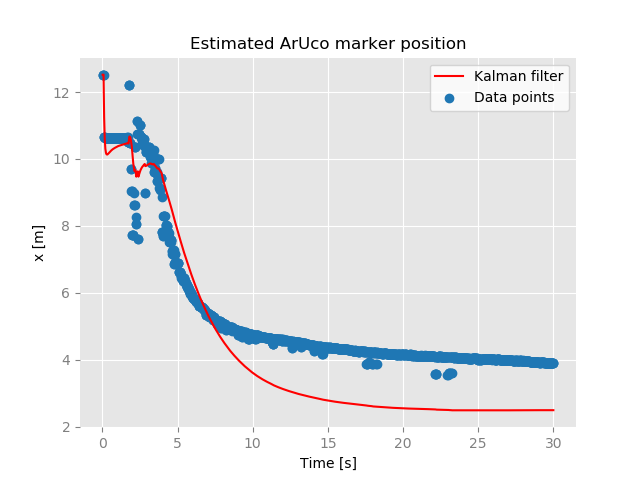
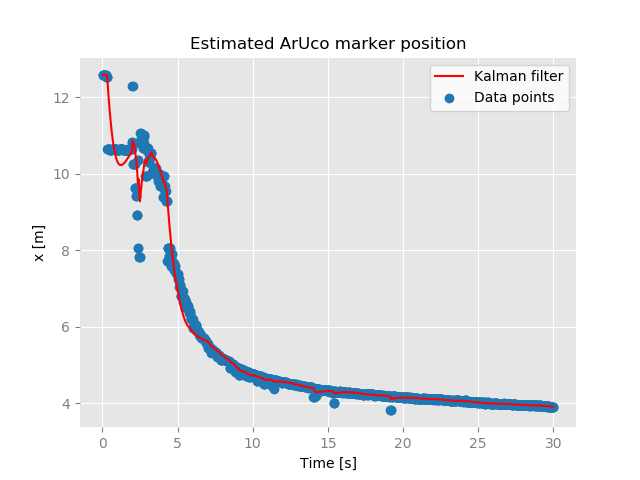
Adaptive filtering added to Kalman filter. KF can be considered done by now

diff --git a/software/ros_workspace/src/marker_detection/tracking.py b/software/ros_workspace/src/marker_detection/tracking.py
@@ -1,15 +1,12 @@
 #!/usr/bin/env python2
 
-#from __future__ import print_function
 import numpy as np
-#import cv2
-import matplotlib.pyplot as plt
 from filterpy.kalman import KalmanFilter 
 from filterpy.common import Q_discrete_white_noise
 from scipy.linalg import block_diag
-#from numpy.random import randn
 from filterpy import*
 
+#Inspiration from https://github.com/rlabbe/Kalman-and-Bayesian-Filters-in-Python/blob/master/14-Adaptive-Filtering.ipynb
 class kalman_filter:
 
     def __init__(self, cycle_time):
@@ -17,41 +14,27 @@ class kalman_filter:
         #Kalman filter 
         self.is_state_initialized = False
 
-        self.R_std = 1.5#0.34
-        self.Q_std = 0.04 #0.04
-
-        self.tracker = KalmanFilter(dim_x=6,dim_z=3)
+        self.tracker = KalmanFilter(dim_x=3, dim_z=1)
         self.dt = cycle_time #Five frames each second
-        self.tracker.F = np.array([[1,0,0,self.dt,0,0],[0,1,0,0,self.dt,0],[0,0,1,0,0,self.dt],[0,0,0,1,0,0],[0,0,0,0,1,0],[0,0,0,0,0,1]])
+        self.tracker.x = np.array([0., 0., 0.]) #State mean
+        self.tracker.P *= np.eye(3) * 0.5 #Variance of the state 0.01
+        self.tracker.R *= 1 #Measurement noise 100
+        self.tracker.Q = Q_discrete_white_noise(dim=3, dt=self.dt, var=0.01) #Process noise 0.01
+        self.tracker.F = np.array([[1, self.dt, 0.5*self.dt*self.dt],[0, 1, self.dt],[0, 0, 1]]) #State transition function
+        self.tracker.H = np.array([[1., 0, 0]]) #Measurement function
         
-        self.tracker.R = np.eye(3) * self.R_std**2
-        self.q = Q_discrete_white_noise(dim=3, dt=self.dt, var=self.Q_std**2)
-        self.tracker.Q = block_diag(self.q, self.q)
-        
-        """
-        self.tracker.Q[0,0] = q[0,0]
-        self.tracker.Q[1,1] = q[0,0]
-        self.tracker.Q[2,2] = q[1,1]
-        self.tracker.Q[3,3] = q[1,1]
-        self.tracker.Q[0,2] = q[0,1]
-        self.tracker.Q[2,0] = q[0,1]
-        self.tracker.Q[1,3] = q[0,1]
-        self.tracker.Q[3,1] = q[0,1]
-        """
+        #Adaptive filtering
+        self.Q_scale_factor = 1000.
+        self.eps_max = 4.
+        self.count = 0
 
-        #Was set to np.array([[1, 0, 0, 0, 0, 0],[0, 1, 0, 0, 0, 0],[0, 0, 1, 0, 0, 0])
-        self.tracker.H = np.array([[1, 0, 0, 0, 0, 0],[0, 1, 0, 0, 0, 0],[0, 0, 1, 0, 0, 0]])
-        self.tracker.x = np.array([[0, 0, 0, 0, 0, 0]]).T
-        self.tracker.P = np.eye(6) * pow(500,2)
-        
     def first_update(self,data):
     
         #Init values for Kalman filtering
         self.is_state_initialized = True
-
-        self.tracker.R = np.eye(3) * self.R_std**2
-        self.tracker.P = np.eye(6) * 500.
-        self.tracker.x = np.array([data[0], data[1], data[2], 0, 0, 0]).T
+        
+        self.tracker.x = np.array([data, 0., 0.])
+        #self.tracker.P = np.eye(3) * 3
         
         self.tracker.predict()
         self.tracker.update(data)
@@ -64,56 +47,18 @@ class kalman_filter:
         else:
             self.tracker.predict()
             self.tracker.update(data)
+            
+            #Adaptive filtering
+            y, S = self.tracker.y, self.tracker.S
+            eps = np.dot(y.T, np.linalg.inv(S)).dot(y)
+            if eps > self.eps_max:
+                self.tracker.Q *= self.Q_scale_factor
+                self.count += 1
+            elif self.count > 0:
+                self.tracker.Q /= self.Q_scale_factor
+                self.count -= 1
 
 if __name__ == "__main__":
 
         #This is only for testing of the Kalman filter
         kf = kalman_filter()
-    
-        pos, vel = (0, 0), (2, 0.5)
-        sensor = kf.init_pos(pos, vel, noise_std=1)
-        
-        ps1 = np.array([kf.read() for _ in range(30)])
-        pos, vel = (0, 0), (2, 0.5)
-        sensor = kf.init_pos(pos, vel, noise_std=1)
-
-        ps2 = np.array([kf.read() for _ in range(30)])
-        
-        pt0 = []
-        pt0.append(ps1[0])
-        pt0.append(ps2[0])
-
-        kf.get_measurement(pt0)
-
-        x1, y1, kfx1, kfy1 = [], [], [], []
-        x2, y2, kfx2, kfy2 = [], [], [], []
-        
-
-        for z in range(29):
-
-                points = []
-                points.append(ps1[z+1])
-                points.append(ps2[z+1])
-            
-                kf_trace = kf.get_measurement(points)
-                
-                kfx1.append(kf.x[0][0])
-                kfy1.append(kf.x[0][1])
-                x1.append(ps1[z][0])
-                y1.append(ps1[z][1])
-
-                kfx2.append(kf.x[1][0])
-                kfy2.append(kf.x[1][1])
-                x2.append(ps2[z][0])
-                y2.append(ps2[z][1])
-
-
-        fig, ax = plt.subplots()
-        ax.scatter(x1, y1)
-        ax.scatter(x2, y2)
-        ax.plot(kfx1,kfy1)
-        ax.plot(kfx2,kfy2)
-        ax.set(xlabel='Position x [m]', ylabel='Position y [m]',title='2D Position tracking Kalman filter')
-        ax.grid()
-        fig.savefig("test.png")
-

diff --git a/software/ros_workspace/src/marker_detection/marker_detection.py b/software/ros_workspace/src/marker_detection/marker_detection.py
@@ -43,8 +43,13 @@ class marker_detection:
         self.plot_time = []
         
         #Init Kalman filters
-        self.kf_pos = kalman_filter(self.cycle_time)
-        self.kf_ori = kalman_filter(self.cycle_time)
+        self.kf_x = kalman_filter(self.cycle_time)
+        self.kf_y = kalman_filter(self.cycle_time)
+        self.kf_z = kalman_filter(self.cycle_time)
+        
+        self.kf_roll = kalman_filter(self.cycle_time)
+        self.kf_pitch = kalman_filter(self.cycle_time)
+        self.kf_yaw = kalman_filter(self.cycle_time)
 
         #Local drone pose
         self.local_position = PoseStamped()
@@ -169,17 +174,23 @@ class marker_detection:
                 
                 #T_drone_marker = np.dot(np.dot(T_world_drone,T_drone_camera), T_camera_marker)
 
-                #Get euler for and update Kalman filter
+                #Get euler and update Kalman filter
                 euler = euler_from_matrix(T_drone_marker,'rxyz')
 
-                self.kf_pos.get_measurement([T_drone_marker[0][3],T_drone_marker[1][3],T_drone_marker[2][3]])
-                self.kf_ori.get_measurement([euler[0],euler[1],euler[2]])
+                self.kf_x.get_measurement(T_drone_marker[0][3])
+                self.kf_y.get_measurement(T_drone_marker[1][3])
+                self.kf_z.get_measurement(T_drone_marker[2][3])
+                
+                self.kf_roll.get_measurement(euler[0])
+                self.kf_pitch.get_measurement(euler[1])
+                self.kf_yaw.get_measurement(euler[2])
                  
-                self.aruco_pose.pose.position.x = self.kf_pos.tracker.x[0]
-                self.aruco_pose.pose.position.y = self.kf_pos.tracker.x[1]
-                self.aruco_pose.pose.position.z = self.kf_pos.tracker.x[2]
+                self.aruco_pose.pose.position.x = self.kf_x.tracker.x[0]
+                self.aruco_pose.pose.position.y = self.kf_y.tracker.x[0]
+                self.aruco_pose.pose.position.z = self.kf_z.tracker.x[0]
 
-                self.aruco_pose.pose.orientation = Quaternion(*quaternion_from_euler(self.kf_ori.tracker.x[0],self.kf_ori.tracker.x[1],self.kf_ori.tracker.x[2],'rxyz'))
+                self.aruco_pose.pose.orientation = Quaternion(*quaternion_from_euler(self.kf_roll.tracker.x[0],self.kf_pitch.tracker.x[0],self.kf_yaw.tracker.x[0],'rxyz'))
+                
                 self.aruco_marker_pose_pub.publish(self.aruco_pose)
 
                 #Plot position data (Just for testing)
@@ -190,9 +201,9 @@ class marker_detection:
                     self.plot_aruco_pos_y.append(T_drone_marker[1][3])
                     self.plot_aruco_pos_z.append(T_drone_marker[2][3])
 
-                    self.plot_aruco_pos_kf_x.append(self.kf_pos.tracker.x[0])
-                    self.plot_aruco_pos_kf_y.append(self.kf_pos.tracker.x[1])
-                    self.plot_aruco_pos_kf_z.append(self.kf_pos.tracker.x[2])
+                    self.plot_aruco_pos_kf_x.append(self.kf_x.tracker.x[0])
+                    self.plot_aruco_pos_kf_y.append(self.kf_y.tracker.x[0])
+                    self.plot_aruco_pos_kf_z.append(self.kf_z.tracker.x[0])
                     
                     if not self.plot_time:
                         self.plot_time.append(self.cycle_time)
